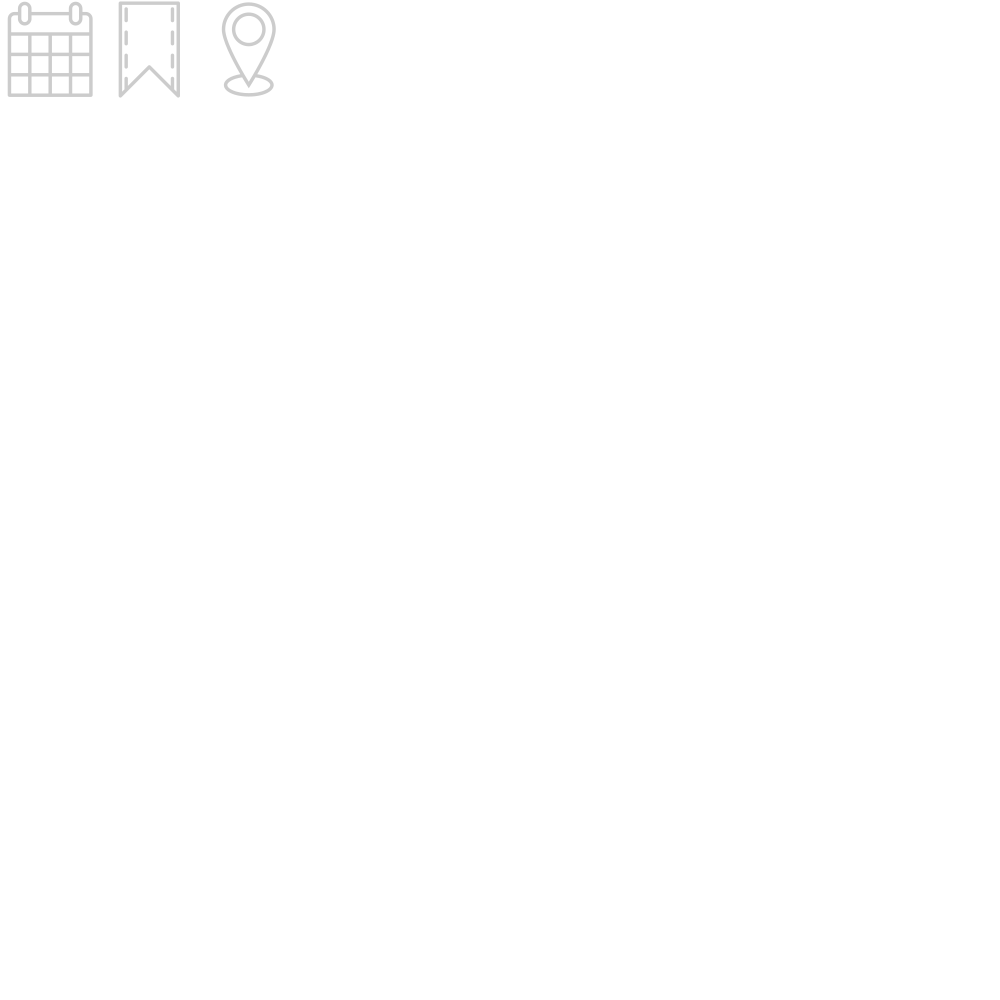
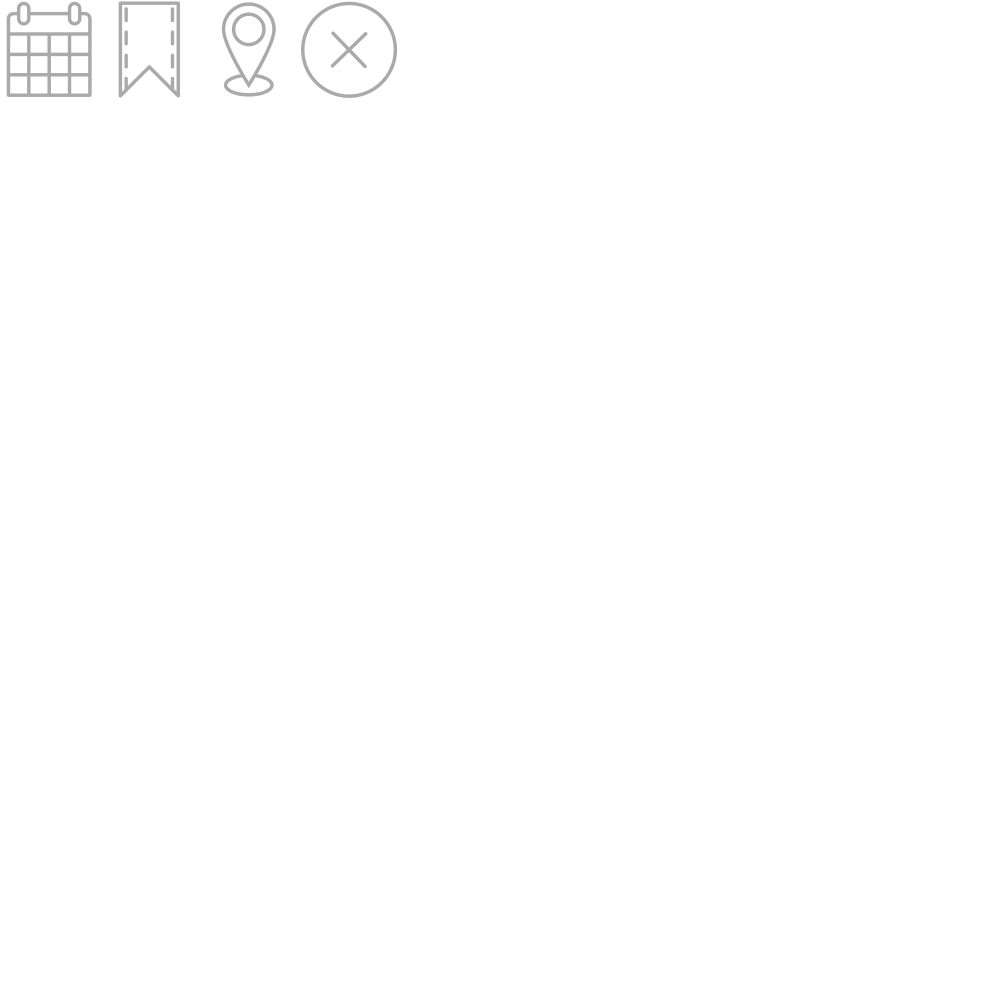
图片点击预览

diff --git a/public/layout/less/layout.less b/public/layout/less/layout.less
@@ -23,6 +23,8 @@
 
 body{
     background-image: url('../../img/bg-blur.jpg');
[1 lines of base64/hex data omitted]
+
     background-size: cover;
     background-attachment: fixed;
 

diff --git a/public/script/view/blog/imgView.js b/public/script/view/blog/imgView.js
@@ -1,0 +1,67 @@
+define( function( require, exports, module ){
+    var _id = {
+        imgViewModule: 'view-img-module',
+        curImg: 'view-img-module .content img'
+    };
+    var _class = {
+        moduleActive: 'active',
+        closeModule: 'close-module'
+    };
+
+    var imgViewModule, curImg, closeModule;
+
+    var imgViewVM;
+
+    var vmHelper = {
+        updateWH: function(){
+            imgViewVM.width = curImg.width() + 30*2;
+            imgViewVM.height = curImg.height() + 30*2;
+        }
+    };
+
+    avalon.ready( function(){
+        imgViewVM = avalon.define( 'imgView', function( vm ){
+            vm.src = '';
+            vm.width = 700;
+            vm.height = 400;
+
+            // vm.$watch( src, function( oldVal, newVal ){
+            //     vm.width = 700;
+            //     vm.height = 400;
+            //     if(  )
+            // } );
+        } );
+
+        avalon.scan();
+    } );
+
+
+    var _event = {
+        bind: function(){
+            $('img').bind('click', _event.imgViewAction );
+            // load后调整容器
+            curImg.bind( 'load', vmHelper.updateWH );
+            closeModule.bind('click', _event.closeViewModule );
+        },
+        imgViewAction: function(){
+            var img = $(this);
+            imgViewVM.src = img.attr('src');
+            imgViewModule.addClass( _class.moduleActive );
+        },
+        closeViewModule: function(){
+            imgViewModule.removeClass( _class.moduleActive );
+        }
+    };
+
+
+    function init(){
+        imgViewModule = $('#' + _id.imgViewModule );
+        curImg = $('#' + _id.curImg );
+        closeModule = $('.' + _class.closeModule );
+        // = $('#' + _id. );
+
+        _event.bind();
+    }
+
+    exports.init = init;
+} );

diff --git a/public/layout/less/blog/blog.less b/public/layout/less/blog/blog.less
@@ -72,6 +72,8 @@
             color: @themeC;
         }
     }
+
+
 }
 .post-item, .post{
     .post-info{
@@ -183,6 +185,8 @@
     // -------------------------- 图片
     img{
         margin: 0 0 0 10px;
+        max-width: 600px;
+        max-height: 350px;
         .box-shadow( 0 0 20px rgba(0,0,0,0.375); );
     }
     // list
@@ -193,4 +197,24 @@
     }
 
 
+}
+
+
+#view-img-module{
+    .content{
+        .border-radius(5px);
+        text-align: center;
+        padding: 30px;
+        background-color: #fcfcfc;
+        .close-module{
+            position: absolute;
+            right: 3px;
+            top: 3px;
+        }
+        img{
+            .box-shadow( 0 0 20px rgba(0,0,0,0.375); );
+            // display: block;
+            // margin: 0 auto;
+        }
+    }
 }

diff --git a/public/layout/less/base/base.less b/public/layout/less/base/base.less
@@ -68,7 +68,7 @@
         width: @defaultPopContentW;
         height: @defaultPopContentH;
         margin-top: -@defaultPopContentH/2;
-        margin-left: -(@defaultPopContentW/2 + @asideW/2);
+        margin-left: -@defaultPopContentW/2;
         background-color: #fff;
         z-index: 50;
     }

diff --git a/gulpfile.js b/gulpfile.js
@@ -88,7 +88,8 @@ var liveReload = require('gulp-livereload');
 
 
 gulp.task('watch', function(){
-    var lr = liveReload();
+    // var lr = liveReload( 9000 );
+    var lr = liveReload( );
     
     // 当前目录下的文件
     gulp.watch('./public/layout/less/*.less', ['compile-less-dev']);

diff --git a/public/script/controller/blogCtrl.js b/public/script/controller/blogCtrl.js
@@ -4,7 +4,9 @@ define(function( require, exports, module ){
     comment.init();
 
     var postList = require('../view/blog/pageInit');
-
     postList.init();
+
+    var imgView = require( '../view/blog/imgView' );
+    imgView.init();
 
 });

diff --git a/public/layout/less/common/icon.less b/public/layout/less/common/icon.less
@@ -8,4 +8,10 @@
     // background-color: #ccc;
     background-image: url('/img/blog-iconset.png');
     background-size: 1000px / ( 100/@iconW);
+
+    cursor: pointer;
+}
+
+.icon.icon-close{
+    .icon-pos( 4, 1 );
 }

diff --git a/public/layout/less/base/mixin.less b/public/layout/less/base/mixin.less
@@ -32,3 +32,7 @@
     -o-transform: @v;
     transform: @v;
 }
+
+.icon-pos( @x: 1, @y: 1, @iconW: 25px ){
+    background-position: -(@x - 1)*@iconW -(@y - 1)*@iconW;
+}
